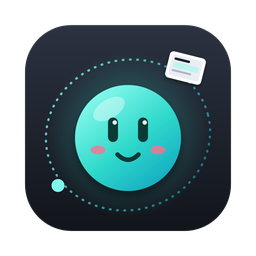
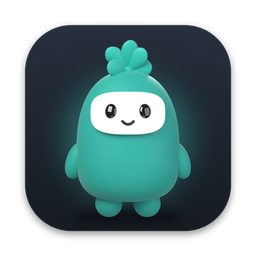
0.9: neuer Look, Changelog, README

diff --git a/README.md b/README.md
@@ -1,5 +1,5 @@
 <p align="center">
-  <img src="assets/alpi-icon.png" width="128" height="128" alt="Alpi app icon">
+  <img src="assets/alpi-hero.png" width="260" alt="Alpi – a little turquoise bean character with a white face mask and a leaf sprout, waving">
 </p>
 
 <h1 align="center">Alpi</h1>
@@ -19,13 +19,22 @@
 
 ---
 
+<picture>
+  <source media="(prefers-color-scheme: dark)" srcset="assets/alpi-family-en-dark.png">
+  <img src="assets/alpi-family-en.png" alt="Alpi waving, holding a screenshot, cheering and napping">
+</picture>
+
 Alpi floats on your desktop (or lives in the menu bar). Every screenshot lands in Alpi's
 **Orbit** as a card you can drag anywhere, edit, pin or turn into text. Drop files on Alpi
 to convert them.
 
 - **Capture** – area, window, full screen, **scrolling capture**, text from an area, self-timer
-- **Record** – screen video (MP4/GIF) with clicks, microphone, system audio and a camera bubble
-- **Edit** – arrows, text, highlights, counters, **redaction** (auto-detects e-mails, IBANs, faces …), beautiful frames
+- **Record** – screen video (MP4/GIF) with clicks, pressed keys, microphone, system audio and a camera bubble
+- **Edit** – arrows, text, highlights, counters, **redaction** (auto-detects e-mails, IBANs, faces …), beautiful frames and **device frames** (laptop, browser, phone, tablet or your own)
+- **Search** – find any screenshot by the text in it, plus images and documents in Downloads (⌃⌥E)
+- **Step guides** – click through a workflow and get a numbered guide as PDF, Markdown or HTML (⌃⌥G)
+- **Translate** – replace the text in a screenshot with a translation (macOS 15+)
+- **Share small** – AirDrop, Mail, Messages or copy at a size that fits – or drag images onto the menu bar icon to shrink them
 - **Smart** – text recognition, QR codes, dates → calendar, tables → Excel, colour picker, clipboard history
 - **Convert** – images, PDFs, Office documents, video → GIF … by drag & drop
 - **Ask Alpi** – type what you want (“PDF from the selected images, then park them”); with Apple Intelligence on macOS 26/27, Alpi can also describe and name screenshots
@@ -41,7 +50,8 @@ to convert them.
 2. Start Alpi. It's signed and notarized by Apple, so it opens normally.
 3. On the first screenshot macOS asks for **Screen & System Audio Recording** – allow it and restart Alpi once.
 
-Optional permissions, only when you use the feature: Accessibility (auto-scroll, paste from the clipboard history),
+Optional permissions, only when you use the feature: Accessibility (auto-scroll, paste from the clipboard history,
+keys in recordings, step guides),
 Camera and Microphone (recordings), Automation (Office conversion, Finder selection).
 
 **Requirements:** macOS 14 Sonoma or later. Apple Intelligence features need macOS 26 or later on Apple silicon
@@ -84,7 +94,8 @@ Made by **turQis Labs**, Berlin.
 ## Deutsch
 
 **Alpi** ist ein kleiner schwebender Begleiter für den Mac: Screenshots (auch scrollend), Bildschirmvideos,
-Editor mit Schwärzen, Texterkennung, QR-Codes, Zwischenablage-Verlauf, Umwandeln per Drag & Drop und
+Editor mit Schwärzen und Geräterahmen, Suche im Bildtext (auch in Downloads), Schritt-Anleitungen,
+Übersetzen im Bild, Texterkennung, QR-Codes, Zwischenablage-Verlauf, Umwandeln per Drag & Drop und
 „Frag Alpi“ mit Apple Intelligence. Die App spricht Deutsch und Englisch.
 
 **Öffentliche Beta – kostenlos, solange sie Beta ist.**

diff --git a/CHANGELOG.md b/CHANGELOG.md
@@ -1,5 +1,20 @@
 # Changelog
 
+## 0.9 Beta – new look, search, step guides
+
+- New Alpi: a turquoise bean with a face mask, leaf sprout and little arms that wave, cheer, hold your shot and rest; new app icon (the classic round Alpi is still in Settings › Alpi's Personality › Look)
+- Search (⌃⌥E): find screenshots by their text, plus images and documents in Downloads and folders you add; optional Spotlight results; index stays on your Mac
+- Step guide (⌃⌥G): every click becomes a cropped, numbered screenshot; reorder, redact and export as PDF, Markdown or HTML
+- Translate text in images (macOS 15 or later), right in the image
+- Recordings can show pressed shortcuts and highlight the pointer
+- Share small: AirDrop, Mail, Messages or copy at a chosen size; ⌘⇧C copies a small version in the editor
+- Device frames: laptop, browser, Android phone (round or square), tablet or your own frame PNG
+- Alpi reacts: sprout flashes on a new screenshot, glows red while recording, reading glasses during text recognition
+- Let Alpi sleep for 1 hour, 3 hours or until tomorrow morning (no suggestions, tap to wake)
+- Drag images onto the menu bar icon to get smaller copies without metadata
+- New menu bar icon; editor crosshair no longer stays over buttons; roomier Share Small window
+- First version you can get with *Update Now* (from 0.8.2)
+
 ## 0.8.2 Beta – faster screenshots, one-click updates
 
 - Screenshots trigger right away (screen capture is prepared in advance, all displays are captured at once)
